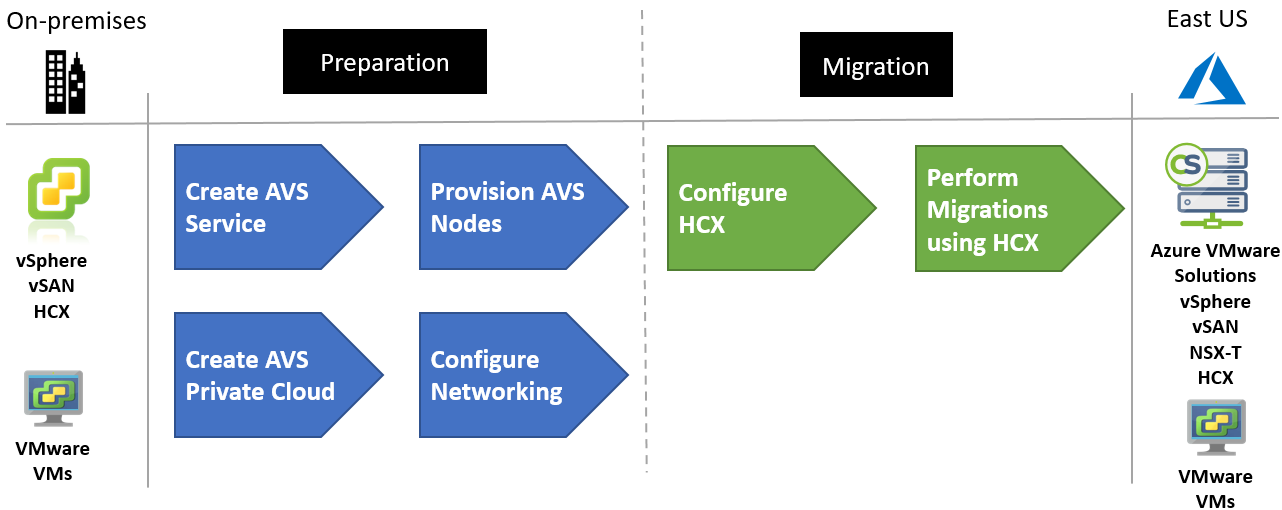
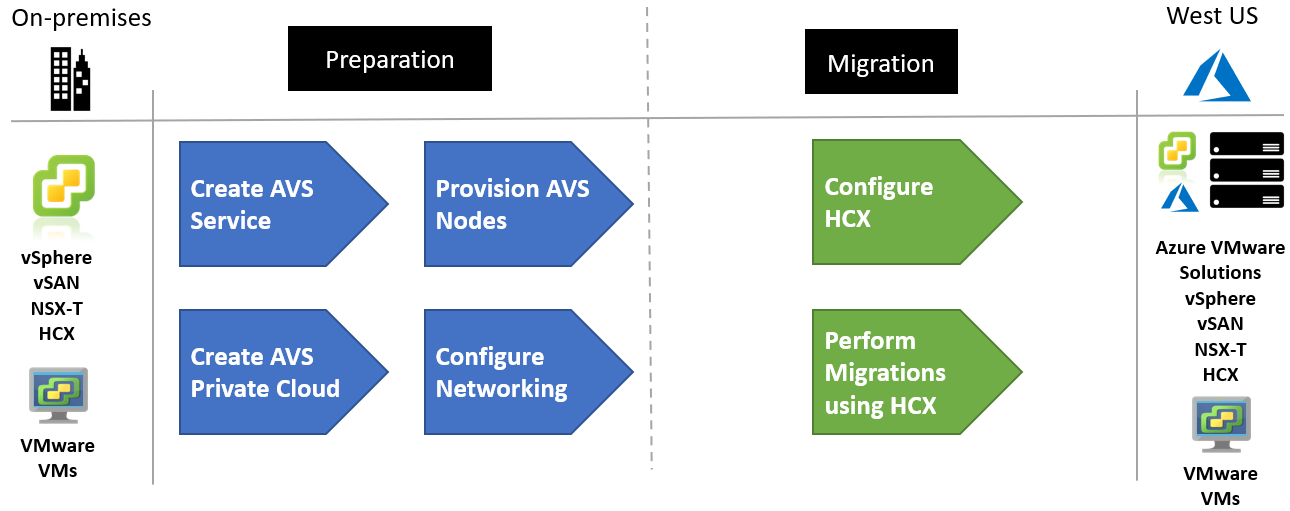
first push to review structure

diff --git a/docs/migrate/azure-best-practices/contoso-migration-vmware-to-azure.md b/docs/migrate/azure-best-practices/contoso-migration-vmware-to-azure.md
@@ -3,7 +3,7 @@ title: "Moving on-premises VMware infrastructure to Azure (Scenario)"
 description: Learn how Contoso moves on-premises VMware VMs to Azure
 author: deltadan
 ms.author: abuck
-ms.date: 05/11/2020
+ms.date: 06/11/2020
 ms.topic: conceptual
 ms.service: cloud-adoption-framework
 ms.subservice: migrate
@@ -40,7 +40,7 @@ Working closely with business partners, the Contoso IT team will define the busi
 With the Business drivers in mind, Contoso has pinned down goals for this migration:
 
 - Continue managing their existing environments with VMware tools familiar to their teams, while modernizing the applications with Native Azure services.
-- Seamlessly move Contoso's VMware-based workloads from their data center to Azure and integrate the VMware environment with Azure. Even the IP addresses for the VMs should not change.
+- Seamlessly move Contoso's VMware-based workloads from their data center to Azure and integrate the VMware environment with Azure. 
 - After migration, the app in Azure should have the same performance capabilities as it does today in VMware. The app will remain as critical in the cloud as it is on-premises.
 
 These goals support the decision to leverage AVS and validate it as the best migration method for Contoso.
@@ -68,14 +68,11 @@ After pinning down goals and requirements, Contoso designs and reviews a deploym
 
 ### Proposed architecture
 
-- Deploy AVS into the West US Azure region.
-- Connect the on-premises data center to AVS running in West US using [ExpressRoute](https://docs.microsoft.com//azure/vmware-cloudsimple/on-premises-connection).
-- Use Layer 2 stretched networks to connect the on-premises VMware environment to the AVS Private Cloud using an NSX Layer 2 VPN.
+- Deploy [AVS Private Cloud](https://docs.microsoft.com/en-us/azure/azure-vmware/concepts-private-clouds-clusters) into the West US Azure region.
+- Connect the on-premises data center to AVS running in West US using Virtual networks [ExpressRoute](https://docs.microsoft.com/en-us/azure/azure-vmware/concepts-networking) with Global Reach enabled.
 - Migrate VMs to dedicated Azure VMware Solutions using [VMware Hybrid Cloud Extension (HCX)](https://docs.vmware.com/en/VMware-HCX/services/user-guide/GUID-D0CD0CC6-3802-42C9-9718-6DA5FEC246C6.html).
 
-![Migration process](./media/contoso-migration-vmware-to-azure/onpremises-stretched-network-expressroute.png)
-
->Note: The [Layer 2 stretched network](https://docs.microsoft.com//azure/vmware-cloudsimple/migration-layer-2-vpn) enables live migration of workloads from your on-premises VMware environment to the Private Cloud in Azure. With this stretched Layer 2 network, the subnet from on-premises will be available on the Private Cloud. After migration, new IP address assignment is not required for the VMs.
+![Proposed Architecture](./media/contoso-migration-vmware-to-azure/onpremises-stretched-network-expressroute.png)
 
 ## Solution Review
 
@@ -83,14 +80,17 @@ Contoso evaluates the proposed design by putting together a pros and cons list.
 
 **Consideration** | **Details**
 --- | ---
-Pros | Bare metal VMware infrastructure with high performance. Infrastructure that is fully dedicated to Contoso and is physically isolated from infrastructure of other customers.<br/><br/>Since Contoso is using a rehost using VMware there is, no special configuration or migration complexity.<br/><br/>Contoso can take advantage of their investment in Software Assurance, using the Azure Hybrid Benefit and extended support for legacy Windows and SQL platforms.<br/><br/>Contoso will retain full control of the app VMs in Azure.
-Cons | Contoso will need to continue supporting the app as VMware VMs rather than moving them to a managed service such as Azure App Service and Azure SQL Database.<br/><br/>Azure VMware Solutions are provisioned and priced based on a minimum of three large nodes rather than individual VMs in Azure IaaS. Learn more about the [pricing](https://azure.microsoft.com//pricing/details/azure-vmware-cloudsimple/) of AVS.
+Pros | Bare metal VMware infrastructure with high performance. Infrastructure that is fully dedicated to Contoso and is physically isolated from infrastructure of other customers.<br/><br/>Since Contoso is using a rehost using VMware there is, no special configuration or migration complexity.<br/><br/>Contoso can take advantage of their investment in Software Assurance, using the Azure Hybrid Benefit and [Extended Security Updates](https://www.microsoft.com/cloud-platform/windows-server-2008) for legacy Windows and SQL platforms.<br/><br/>Contoso will retain full control of the app VMs in Azure.<br/><br/>
+Cons | Contoso will need to continue supporting the app as VMware VMs rather than moving them to a managed service such as Azure App Service and Azure SQL Database.<br/><br/>Azure VMware Solutions are provisioned and priced based on a minimum of three large nodes rather than individual VMs in Azure IaaS. They will need to plan their capacity needs as they don on-premises today rather than benefits from the on-demand nature of other services in Azure.
+
+> ![NOTE]
+> Learn more about the [pricing](https://azure.microsoft.com/pricing/details/azure-vmware/) of Azure VMware Solutions.
 
 ## Migration process
 
 Contoso will move VMs to AVS using the VMware HCX tool. The VMs will run in an AVS Private Cloud.  [VMware HCX migration types](https://docs.vmware.com/en/VMware-HCX/services/user-guide/GUID-8A31731C-AA28-4714-9C23-D9E924DBB666.html) include Bulk Migration, Cold Migration, and even while a workload is running through live migration using vMotion or Replication Assisted vMotion (RAV).
 
-- As a first step, Contoso prepares the Azure components for AVS, and prepares the on-premises VMware infrastructure.
+- As a first step, Contoso prepares the Azure components for AVS.
 - Contoso creates the AVS Service using the Azure portal and then provisions the AVS Nodes.
 - The AVS Private cloud is then created and the networking is configured including the ExpressRoute circuits.
 - Contoso next configures the HCX components to connect their on-premises vSphere environment to the AVS Private Cloud.
@@ -103,45 +103,28 @@ Contoso will move VMs to AVS using the VMware HCX tool. The VMs will run in an A
 
 ## Scenarios steps
 
-1. Create AVS Service
-2. Provision AVS Nodes
-3. Create AVS Private Cloud
-4. Configure Networking
-5. Migrate VMs using HCX
+1. Network planning
+1. Create an AVS private Cloud
+1. Configure Networking
+1. Migrate VMs using HCX
 
-### Step 1: Create AVS Services
-
-Contoso will provision the AVS service in the West US Azure region, where the AVS service is available. The AVS service allows them o provision nodes, reserve nodes, and create AVS Private Clouds. The AVS also service defines the edge network of Azure VMware Solution by AVS. This edge network is used by services that include VPN, ExpressRoute, and Internet connectivity to their AVS Private Clouds.
-
->Note:  Azure VMware Solution is available in the US East, US West, and West Europe regions.
-
-1. First, they select the subscription, resource group, and provide a name for the service and networking information as needed.
-
->Note: Learn more about the [networking prerequisites](https://docs.microsoft.com//azure/vmware-cloudsimple/cloudsimple-network-checklist) for Azure VMware Solutions.
-
-![Migration process](./media/contoso-migration-vmware-to-azure/create-cloudsimple.png)
-
-Once the service is created and added to the list of services in Contoso's subscription, they will move on to create their AVS nodes.
-
->Note: Learn to create an AVS service using a [tutorial](https://docs.microsoft.com//azure/vmware-cloudsimple/quickstart-create-cloudsimple-service).
-
-### Step 2: Provision AVS Nodes
-
-Using the Azure portal, Contoso will provision nodes for their AVS deployment.  The AVS nodes are the VMware ESXi hosts to be deployed on bare metal in the Azure region.
-
-1. Contoso selects the correct subscription, resource group, and name prefix to use used for the AVS nodes.
-
-2. Also, provided are the name prefix, the Availability Zone in the data center along with the desired node type (size), and count they wish to deploy.
-
-![Migration process](./media/contoso-migration-vmware-to-azure/create-cloudsimple-step1.png)
-
->Note: Learn to create AVS nodes using a [tutorial](https://docs.microsoft.com//azure/vmware-cloudsimple/quickstart-create-cloudsimple-service#provision-nodes).
-
-### Step 3: Create an AVS Private Cloud
-
+### Step 1: Network planning
 With the AVS nodes now deployed, Contoso moves on to creating the AVS Private cloud. An AVS Private Cloud is an isolated VMware stack that supports ESXi hosts, vCenter, vSAN, and NSX.
 
 AVS Private Clouds are managed through the AVS portal. They have their own vCenter server in its own management domain. The stack runs on dedicated nodes and isolated bare metal hardware nodes.
+
+>![NOTE]
+> Learn about network planning for AVS using a [tutorial](https://docs.microsoft.com/azure/azure-vmware/tutorial-network-checklist).
+
+### Step 2: Create an AVS private Cloud
+
+Contoso will provision the AVS service in the West US Azure region, where the AVS service is available. The AVS service allows them o provision nodes, reserve nodes, and create AVS Private Clouds. The AVS also service defines the edge network of Azure VMware Solution by AVS. This edge network is used by services that include VPN, ExpressRoute, and Internet connectivity to their AVS Private Clouds.
+
+>![NOTE]
+> Learn to create AVS private Clouds using a [tutorial](https://docs.microsoft.com/azure/azure-vmware/tutorial-create-private-cloud).
+
+### Step 3: Configure Networking
+
 
 From the Azure portal, Contoso follows these steps:
 
@@ -165,7 +148,7 @@ After reviewing the final information, the AVS Private Cloud provisioning proces
 
 >Note: Learn to configure an AVS Private Cloud environment using a [tutorial](https://docs.microsoft.com//azure/vmware-cloudsimple/quickstart-create-private-cloud).
 
-### Step 4: Configure Networking
+### Step 4: Migrate VMs using HCX
 
 Once the AVS Private Cloud is provisioned, Contoso will use the following steps to configure the networking:
 
